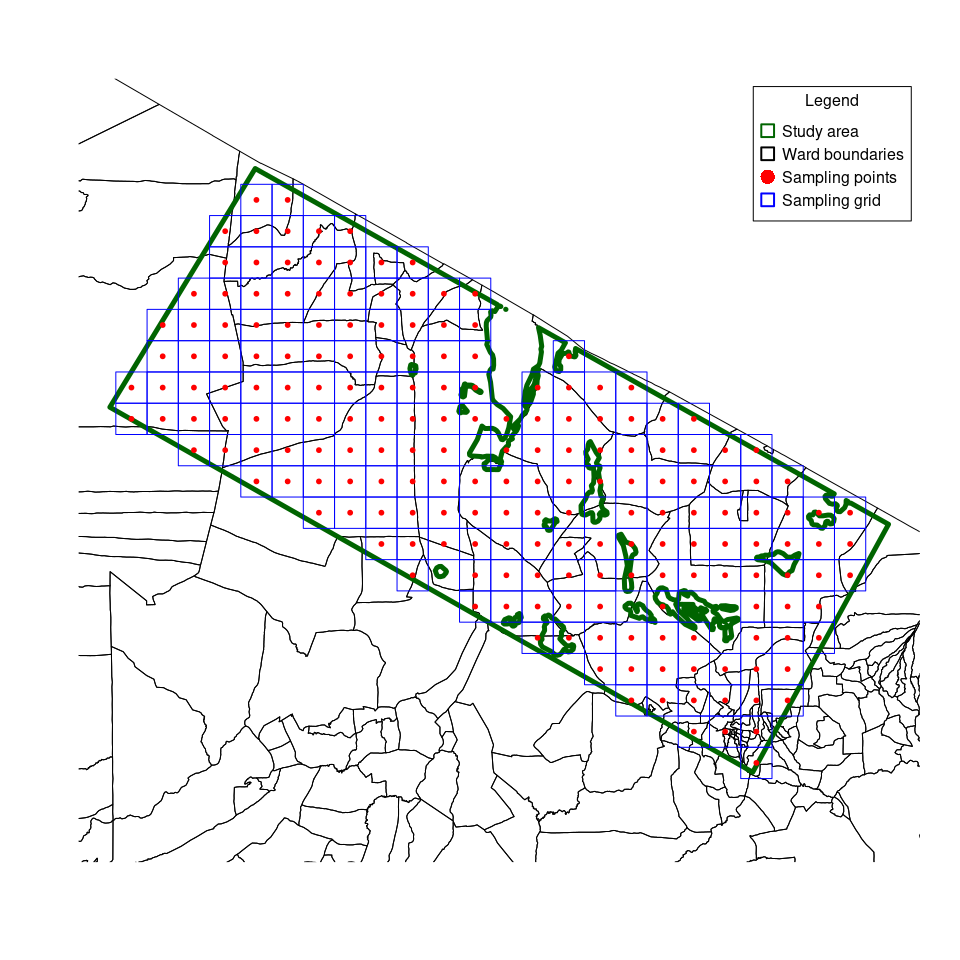
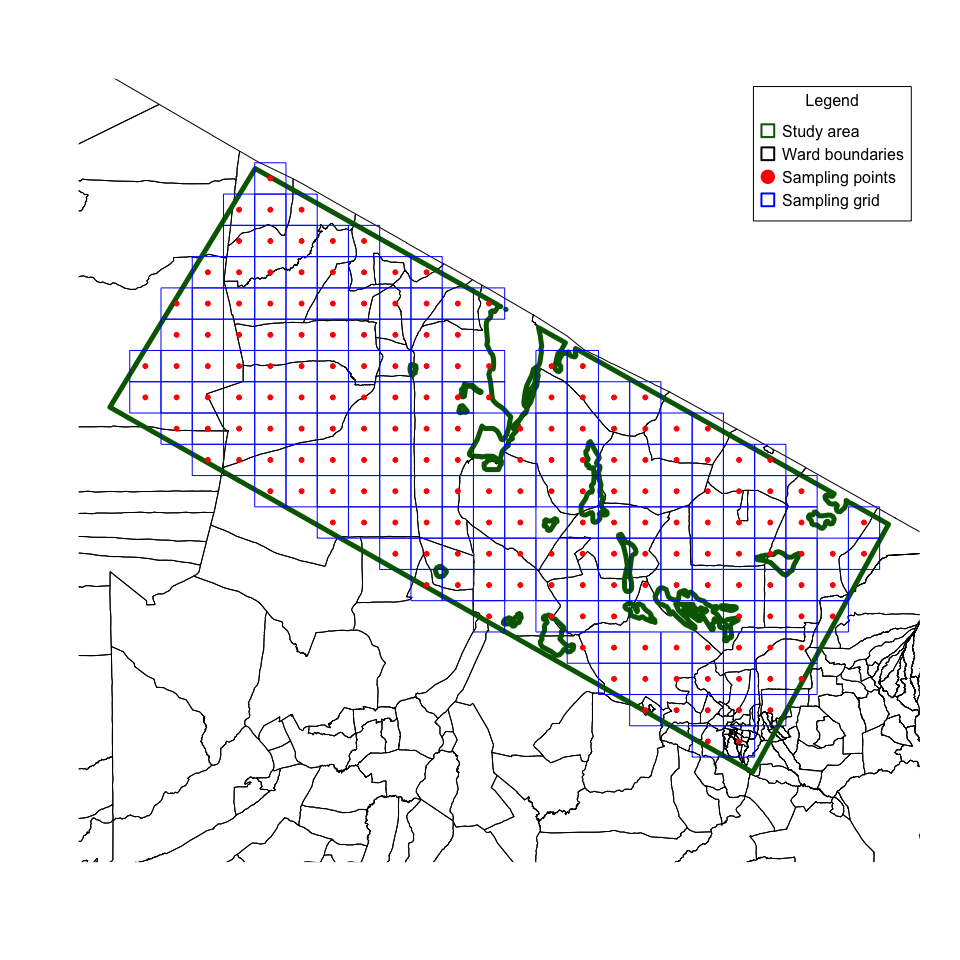
update project documentation and increase version to v0.3.0

Changed region(s): [[0.125, 0.1875, 0.9375, 0.8125], [0.7812, 0.0938, 0.9375, 0.2188], [0.9062, 0.6875, 0.9688, 0.7188]]

diff --git a/README.md b/README.md
@@ -8,7 +8,7 @@
 [![Project Status: Active – The project has reached a stable, usable
 state and is being actively
 developed.](https://www.repostatus.org/badges/latest/active.svg)](https://www.repostatus.org/#active)
-![version](https://img.shields.io/badge/version-v0.1.0-blue)
+![version](https://img.shields.io/badge/version-v0.3.0-blue)
 [![license](https://img.shields.io/badge/license-MIT-blue)](https://github.com/ecohealthalliance/spatialsampling/blob/master/LICENSE)
 <!-- badges: end -->
 
@@ -24,11 +24,11 @@ size distribution is inversely related to human population size.
 With **CSAS**, sampling of any subject is performed systematically over
 geographic area and resulting sample is said to be spatially
 representative. This type of sample is said to approximate a simple
-random sample (SRS)<sup>\[1\]</sup>. Thus, a mixed human and animal
+random sample (SRS)<sup>[1]</sup>. Thus, a mixed human and animal
 subject study can use the same spatial sampling frame for all subjects.
 Additional advantages of a **CSAS** approach is that the resulting
 sample is implicitly spatially stratified which contributes to increased
-sampling variance<sup>\[2\]\[3\]</sup>.
+sampling variance<sup>[2][3]</sup>.
 
 ## Steps in CSAS
 
@@ -71,9 +71,9 @@ population representative by applying a population weighted analysis
 during indicator/outcome estimation. This can be done parametrically
 using Taylor linearised deviation techniques (which can be implemented
 in [R](https://cran.r-project.org) using Thomas Lumley’s [survey
-package](https://cran.r-project.org/web/packages/survey/survey.pdf)<sup>\[4\]</sup>)
+package](https://cran.r-project.org/web/packages/survey/survey.pdf)<sup>[4]</sup>)
 or using a non-parametric weighted bootstrap approach such as the one
-described [here](https://github.com/rapidsurvys/bbw)<sup>\[5\]</sup>.
+described [here](https://github.com/rapidsurvys/bbw)<sup>[5]</sup>.
 
 <br>
 
@@ -82,7 +82,7 @@ described [here](https://github.com/rapidsurvys/bbw)<sup>\[5\]</sup>.
 This [Shiny](https://shiny.rstudio.com) application assists users in the
 process of applying **CSAS** to a specified study area. This application
 utilises the [R](https://cran.r-project.org) package
-[`spatialsampler`](https://github.com/spatialworks/spatialsampler)<sup>\[6\]</sup>
+[`spatialsampler`](https://github.com/spatialworks/spatialsampler)<sup>[6]</sup>
 which provides functions for performing **CSAS**.
 
 The application can be accessed either via [EcoHealth
@@ -165,7 +165,7 @@ contribute to it via
 those who are familiar and comfortable with installing
 [R](https://cran.r-project.org) spatial packages. We recommend using
 this second approach if you fall within the categories described above
-or if you are up for a challenge\!
+or if you are up for a challenge!
 
 ### Using the Shiny application
 
@@ -210,22 +210,22 @@ containing the multiple files required.
 To trial the application, the following sample study area maps for
 specific countries can be downloaded and used for this step:
 
-  - Bangladesh -
+-   Bangladesh -
     [survey\_area\_bgd.gpkg](https://github.com/ecohealthalliance/spatialsampling/blob/main/maps/survey_area_bgd.gpkg?raw=true)
 
-  - Jordan -
+-   Jordan -
     [survey\_area\_jor.gpkg](https://github.com/ecohealthalliance/spatialsampling/blob/main/maps/survey_area_jor.gpkg?raw=true)
 
-  - Liberia -
+-   Liberia -
     [survey\_area\_lbr.gpkg](https://github.com/ecohealthalliance/spatialsampling/blob/main/maps/survey_area_lbr.gpkg?raw=true)
 
-  - Philippines -
+-   Philippines -
     [survey\_area\_phl.gpkg](https://github.com/ecohealthalliance/spatialsampling/blob/main/maps/survey_area_phl.gpkg?raw=true)
 
-  - South Africa -
+-   South Africa -
     [survey\_area\_zaf.gpkg](https://github.com/ecohealthalliance/spatialsampling/blob/main/maps/survey_area_zaf.gpkg?raw=true)
 
-  - Tanzania -
+-   Tanzania -
     [survey\_area\_tza.gpkg](https://github.com/ecohealthalliance/spatialsampling/blob/main/maps/survey_area_tza.gpkg?raw=true)
 
 Once a map file has been uploaded, this will be read and processed. Part
@@ -257,6 +257,15 @@ optional but as a rule-of-thumb, it is recommended to add a buffer as
 the study area increases and/or if your number of sampling units is
 closer to 30.
 
+#### Select centric or eccentric sample
+
+By default, the application will perform a *centric sample* selection
+which is signified by the tick on the checkbox labeled “Centric sample”.
+If desired, an *eccentric sample* can be selected (sampling point is
+randomly selected at any part of each of the sampling grids rather than
+just the centre). Untick this checkbox if an *eccentric sample* is
+desired.
+
 #### Sample
 
 Once the required number of sampling units has been specified, a spatial
@@ -286,11 +295,11 @@ steps above.
 This [Shiny](https://shiny.rstudio.com) application was made possible by
 contributions from:
 
-  - [Ernest Guevarra](mailto:guevarra@ecohealthalliance.org)
+-   [Ernest Guevarra](mailto:guevarra@ecohealthalliance.org)
 
-  - [Melinda Rostal](mailto:rostal@ecohealthalliance.org)
+-   [Melinda Rostal](mailto:rostal@ecohealthalliance.org)
 
-  - [Rebecca Bodenham](mailto:bodenham@ecohealthalliance.org)
+-   [Rebecca Bodenham](mailto:bodenham@ecohealthalliance.org)
 
 <br>
 
@@ -312,28 +321,28 @@ seek support
 
 ## References
 
-1.  Milne, A. (1959). The Centric Systematic Area-Sample Treated as a
-    Random Sample. Biometrics, 15(2), 270-297. <doi:10.2307/2527674>
+[1] Milne, A. (1959). The Centric Systematic Area-Sample Treated as a
+Random Sample. Biometrics, 15(2), 270-297. <doi:10.2307/2527674>
 
-2.  Aaron GJ, Strutt N, Boateng NA, Guevarra E, Siling K, et al. (2016)
-    Assessing Program Coverage of Two Approaches to Distributing a
-    Complementary Feeding Supplement to Infants and Young Children in
-    Ghana. PLOS ONE 11(10): e0162462.
-    <https://doi.org/10.1371/journal.pone.0162462>
+[2] Aaron GJ, Strutt N, Boateng NA, Guevarra E, Siling K, et al. (2016)
+Assessing Program Coverage of Two Approaches to Distributing a
+Complementary Feeding Supplement to Infants and Young Children in Ghana.
+PLOS ONE 11(10): e0162462.
+<https://doi.org/10.1371/journal.pone.0162462>
 
-3.  Aaron, G. J. et al. (2016) ‘Household coverage of fortified staple
-    food commodities in Rajasthan, India’, PLoS ONE, 11(10).
-    <https://doi.org/10.1371/journal.pone.0163176>
+[3] Aaron, G. J. et al. (2016) ‘Household coverage of fortified staple
+food commodities in Rajasthan, India’, PLoS ONE, 11(10).
+<https://doi.org/10.1371/journal.pone.0163176>
 
-4.  Lumley T. Analysis of complex survey samples. Journal of Statistical
-    Software. 2004;9: 1–19. Available:
-    <http://www.jstatsoft.org/v09/a08/paper>
+[4] Lumley T. Analysis of complex survey samples. Journal of Statistical
+Software. 2004;9: 1–19. Available:
+<http://www.jstatsoft.org/v09/a08/paper>
 
-5.  Mark Myatt (2018). bbw: Blocked Weighted Bootstrap. R package
-    version 0.1.3. <https://CRAN.R-project.org/package=bbw>
+[5] Mark Myatt (2018). bbw: Blocked Weighted Bootstrap. R package
+version 0.1.3. <https://CRAN.R-project.org/package=bbw>
 
-6.  Mark Myatt, Farah Ibrahim and Ernest Guevarra (2018).
-    spatialsampler: An Implementation of the Centric Systematic Area
-    Sampling (CSAS) and Simple Spatial Sampling Method (S3M) sampling
-    approaches in R. R package version 0.1.0.
-    <https://github.com/spatialworks/spatialsampler>
+[6] Mark Myatt, Farah Ibrahim and Ernest Guevarra (2018).
+spatialsampler: An Implementation of the Centric Systematic Area
+Sampling (CSAS) and Simple Spatial Sampling Method (S3M) sampling
+approaches in R. R package version 0.1.0.
+<https://github.com/spatialworks/spatialsampler>

diff --git a/NEWS.md b/NEWS.md
@@ -1,17 +1,26 @@
-`spatialsampling` v0.2.0
+# `spatialsampling` v0.3.0
+
+Third release of `spatialsampling`. In this release:
+
+* Added function to perform *eccentric sample* selection within the sampling grids.
+
+* Updated README to reflect usage of new function.
+
+
+# `spatialsampling` v0.2.0
 
 Second release of `spatialsampling`. In this release:
 
 * Published the application to EHA's new RSConnect server via GitHub using a `manifest.json`.
 
-* updated documentation to reflect new application URL.
+* Updated documentation to reflect new application URL.
 
 * Updated some package dependencies given changes in sources/repositories of some packages.
 
 * Added a NEWS.md to track application versions.
 
 
-`spatialsampling` v0.1.0
+# `spatialsampling` v0.1.0
 
 First release of `spatialsampling`. In this release:
 
